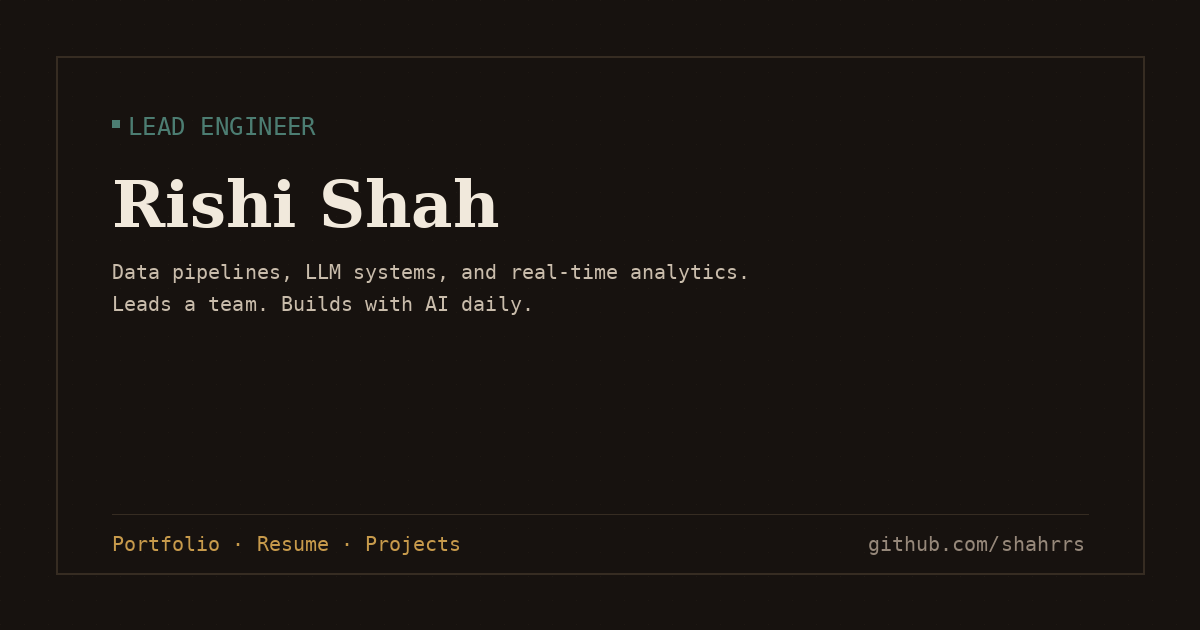
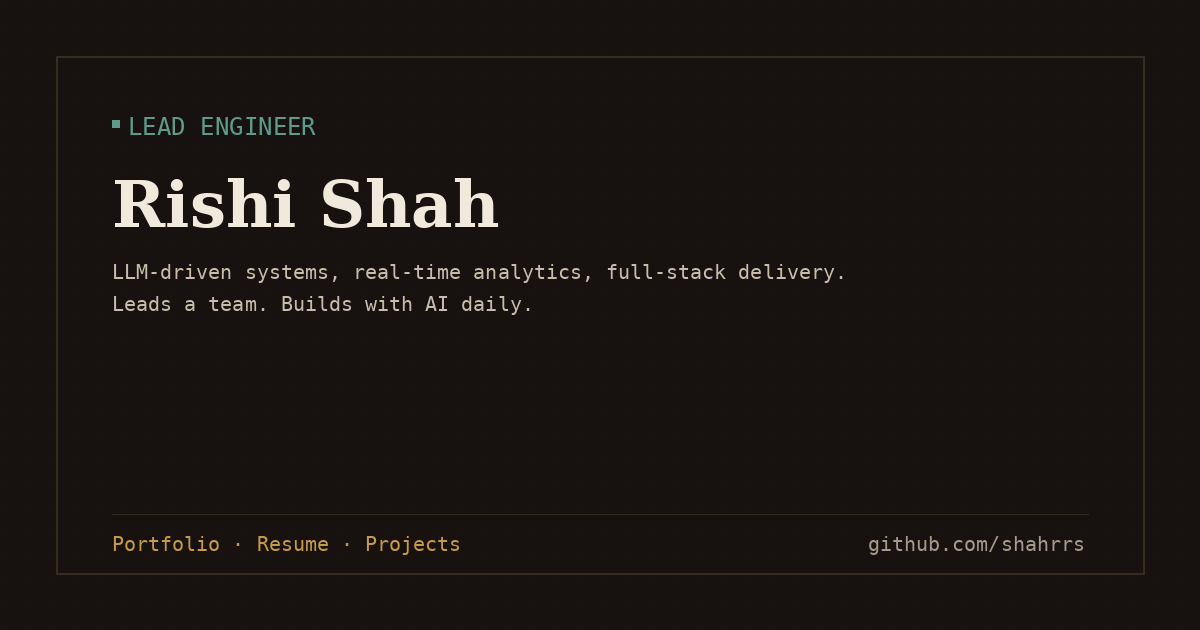
updates to UI and phrasing
updates

Changed region(s): [[0.0925, 0.4222, 0.7092, 0.4524], [0.0925, 0.181, 0.2775, 0.2111]]

diff --git a/index.html b/index.html
@@ -4,7 +4,7 @@
 <meta charset="UTF-8">
 <meta name="viewport" content="width=device-width, initial-scale=1.0">
 <title>Rishi Shah — Lead Engineer</title>
-<meta name="description" content="Rishi Shah — Lead Engineer building data pipelines, LLM-driven systems, and real-time analytics. Leads a team. Builds with AI daily.">
+<meta name="description" content="Rishi Shah — Lead Engineer building LLM-driven systems, real-time analytics, and full-stack delivery. Leads a team. Builds with AI daily.">
 <link rel="preconnect" href="https://fonts.googleapis.com">
 <link href="https://fonts.googleapis.com/css2?family=Fraunces:ital,opsz,wght@0,9..144,500;0,9..144,600;1,9..144,500&family=Inter:wght@400;500;600&family=IBM+Plex+Mono:wght@400;500&display=swap" rel="stylesheet">
 <link rel="stylesheet" href="styles.css">
@@ -12,12 +12,12 @@
 <link rel="apple-touch-icon" href="assets/apple-touch-icon.png">
 <meta property="og:type" content="website">
 <meta property="og:title" content="Rishi Shah — Lead Engineer">
-<meta property="og:description" content="Lead Engineer building data pipelines, LLM-driven systems, and real-time analytics. Leads a team. Builds with AI daily.">
+<meta property="og:description" content="Lead Engineer building LLM-driven systems, real-time analytics, and full-stack delivery. Leads a team. Builds with AI daily.">
 <meta property="og:image" content="assets/og-banner.png">
 <meta property="og:url" content="https://shahrrs.github.io/">
 <meta name="twitter:card" content="summary_large_image">
 <meta name="twitter:title" content="Rishi Shah — Lead Engineer">
-<meta name="twitter:description" content="Lead Engineer building data pipelines, LLM-driven systems, and real-time analytics. Leads a team. Builds with AI daily.">
+<meta name="twitter:description" content="Lead Engineer building LLM-driven systems, real-time analytics, and full-stack delivery. Leads a team. Builds with AI daily.">
 <meta name="twitter:image" content="assets/og-banner.png">
 </head>
 <body>
@@ -40,7 +40,7 @@
       <span class="eyebrow">Overview</span>
       <h1>I ship systems, lead the people who run them, and let AI carry the boilerplate.</h1>
       <p class="hero-sub">
-        Lead Engineer building data pipelines, LLM-driven systems, and real-time analytics — currently
+        Lead Engineer building LLM-driven systems, real-time analytics, and full-stack solutions — currently
         embedded with an enterprise client, managing a team of engineers, and finishing an M.S. in
         Computer Science (AI specialization) at Georgia Tech.
       </p>
@@ -51,7 +51,7 @@
 
       <div class="factcard">
         <div class="factcard-bar">
-          <span></span><span></span><span></span>
+          <span class="dot"></span><span class="dot"></span><span class="dot"></span>
           <span class="label">quick-facts.log</span>
         </div>
         <dl class="factgrid">
@@ -61,7 +61,7 @@
           </div>
           <div class="fact">
             <dt>focus</dt>
-            <dd>Data pipelines · LLM systems · real-time analytics</dd>
+            <dd>LLM systems · real-time analytics · full-stack delivery</dd>
           </div>
           <div class="fact">
             <dt>leading</dt>
@@ -72,24 +72,27 @@
             <dd>M.S. CS (AI), Georgia Tech OMSCS — exp. Dec 2027</dd>
           </div>
         </dl>
-      </div>
 
-      <div class="stat-row">
-        <div class="stat">
-          <span class="stat-num">10,000+</span>
-          <span class="stat-label">lines shipped in 8 weeks</span>
+        <div class="factcard-bar factcard-bar--divider">
+          <span class="label">impact.log</span>
         </div>
-        <div class="stat">
-          <span class="stat-num">300+</span>
-          <span class="stat-label">users on a system I built</span>
-        </div>
-        <div class="stat">
-          <span class="stat-num">10+</span>
-          <span class="stat-label">engineers led</span>
-        </div>
-        <div class="stat">
-          <span class="stat-num">75%</span>
-          <span class="stat-label">faster incident resolution</span>
+        <div class="stat-row">
+          <div class="stat">
+            <span class="stat-num">10,000+</span>
+            <span class="stat-label">lines shipped in 8 weeks</span>
+          </div>
+          <div class="stat">
+            <span class="stat-num">300+</span>
+            <span class="stat-label">users on a system I built</span>
+          </div>
+          <div class="stat">
+            <span class="stat-num">10+</span>
+            <span class="stat-label">engineers led</span>
+          </div>
+          <div class="stat">
+            <span class="stat-num">75%</span>
+            <span class="stat-label">faster incident resolution</span>
+          </div>
         </div>
       </div>
     </div>
@@ -106,7 +109,7 @@
           <span class="tag">// coding</span>
           <h3>I build real, running systems</h3>
           <p>
-            Data pipelines, LLM-driven provisioning, and real-time analytics in production —
+            LLM-driven provisioning, real-time analytics, and full-stack delivery in production —
             plus side projects built the same way: shipped, not sketched.
           </p>
         </div>

diff --git a/styles.css b/styles.css
@@ -271,7 +271,8 @@ p { margin: 0; }
   background: var(--bg-raised);
 }
 
-.factcard-bar span {
+.factcard-bar .dot {
+  display: inline-block;
   width: 8px; height: 8px; border-radius: 50%;
   background: var(--line);
 }
@@ -309,29 +310,30 @@ p { margin: 0; }
   color: var(--ink);
 }
 
-/* ---------- stat row ---------- */
+/* ---------- stat row (lives inside factcard, see below) ---------- */
+
+.factcard-bar--divider {
+  border-top: 1px solid var(--line-soft);
+  border-bottom: 1px solid var(--line-soft);
+}
 
 .stat-row {
-  margin-top: 28px;
   display: grid;
   grid-template-columns: repeat(4, 1fr);
-  gap: 1px;
-  background: var(--line-soft);
-  border: 1px solid var(--line-soft);
-  border-radius: var(--radius);
-  overflow: hidden;
 }
 
 .stat {
-  background: var(--bg-raised);
-  padding: 20px 18px;
+  padding: 18px 20px;
+  border-right: 1px solid var(--line-soft);
   text-align: left;
 }
+
+.stat:last-child { border-right: none; }
 
 .stat-num {
   display: block;
   font-family: var(--font-display);
-  font-size: 30px;
+  font-size: 26px;
   font-weight: 600;
   color: var(--gold);
   line-height: 1;
@@ -341,13 +343,15 @@ p { margin: 0; }
   display: block;
   margin-top: 8px;
   font-family: var(--font-mono);
-  font-size: 11.5px;
+  font-size: 11px;
   color: var(--muted);
   line-height: 1.4;
 }
 
 @media (max-width: 760px) {
   .stat-row { grid-template-columns: repeat(2, 1fr); }
+  .stat:nth-child(2n) { border-right: none; }
+  .stat:nth-child(-n+2) { border-bottom: 1px solid var(--line-soft); }
 }
 
 /* ---------- pillars ---------- */
@@ -558,12 +562,12 @@ p { margin: 0; }
 }
 
 .shot-grid figcaption {
-  padding: 10px 12px;
+  padding: 14px 16px;
   font-family: var(--font-mono);
-  font-size: 11.5px;
+  font-size: 12px;
   color: var(--muted);
   border-top: 1px solid var(--line-soft);
-  line-height: 1.4;
+  line-height: 1.5;
 }
 
 /* lightbox */

diff --git a/about.html b/about.html
@@ -40,8 +40,8 @@
       <span class="eyebrow">About</span>
       <h1>Lead Engineer, team lead, and lifelong student of the stack.</h1>
       <p class="hero-sub">
-        I'm a Lead Engineer at Accenture, embedded with Comcast, working across data pipelines,
-        LLM-driven systems, and real-time analytics. I manage a team of engineers, I'm finishing
+        I'm a Lead Engineer at Accenture, embedded with Comcast, working across LLM-driven systems,
+        real-time analytics, and full-stack delivery. I manage a team of engineers, I'm finishing
         an M.S. in Computer Science with an AI specialization at Georgia Tech, and I use AI coding
         agents every day — as a tool that speeds me up, not one that replaces the judgment calls.
       </p>
